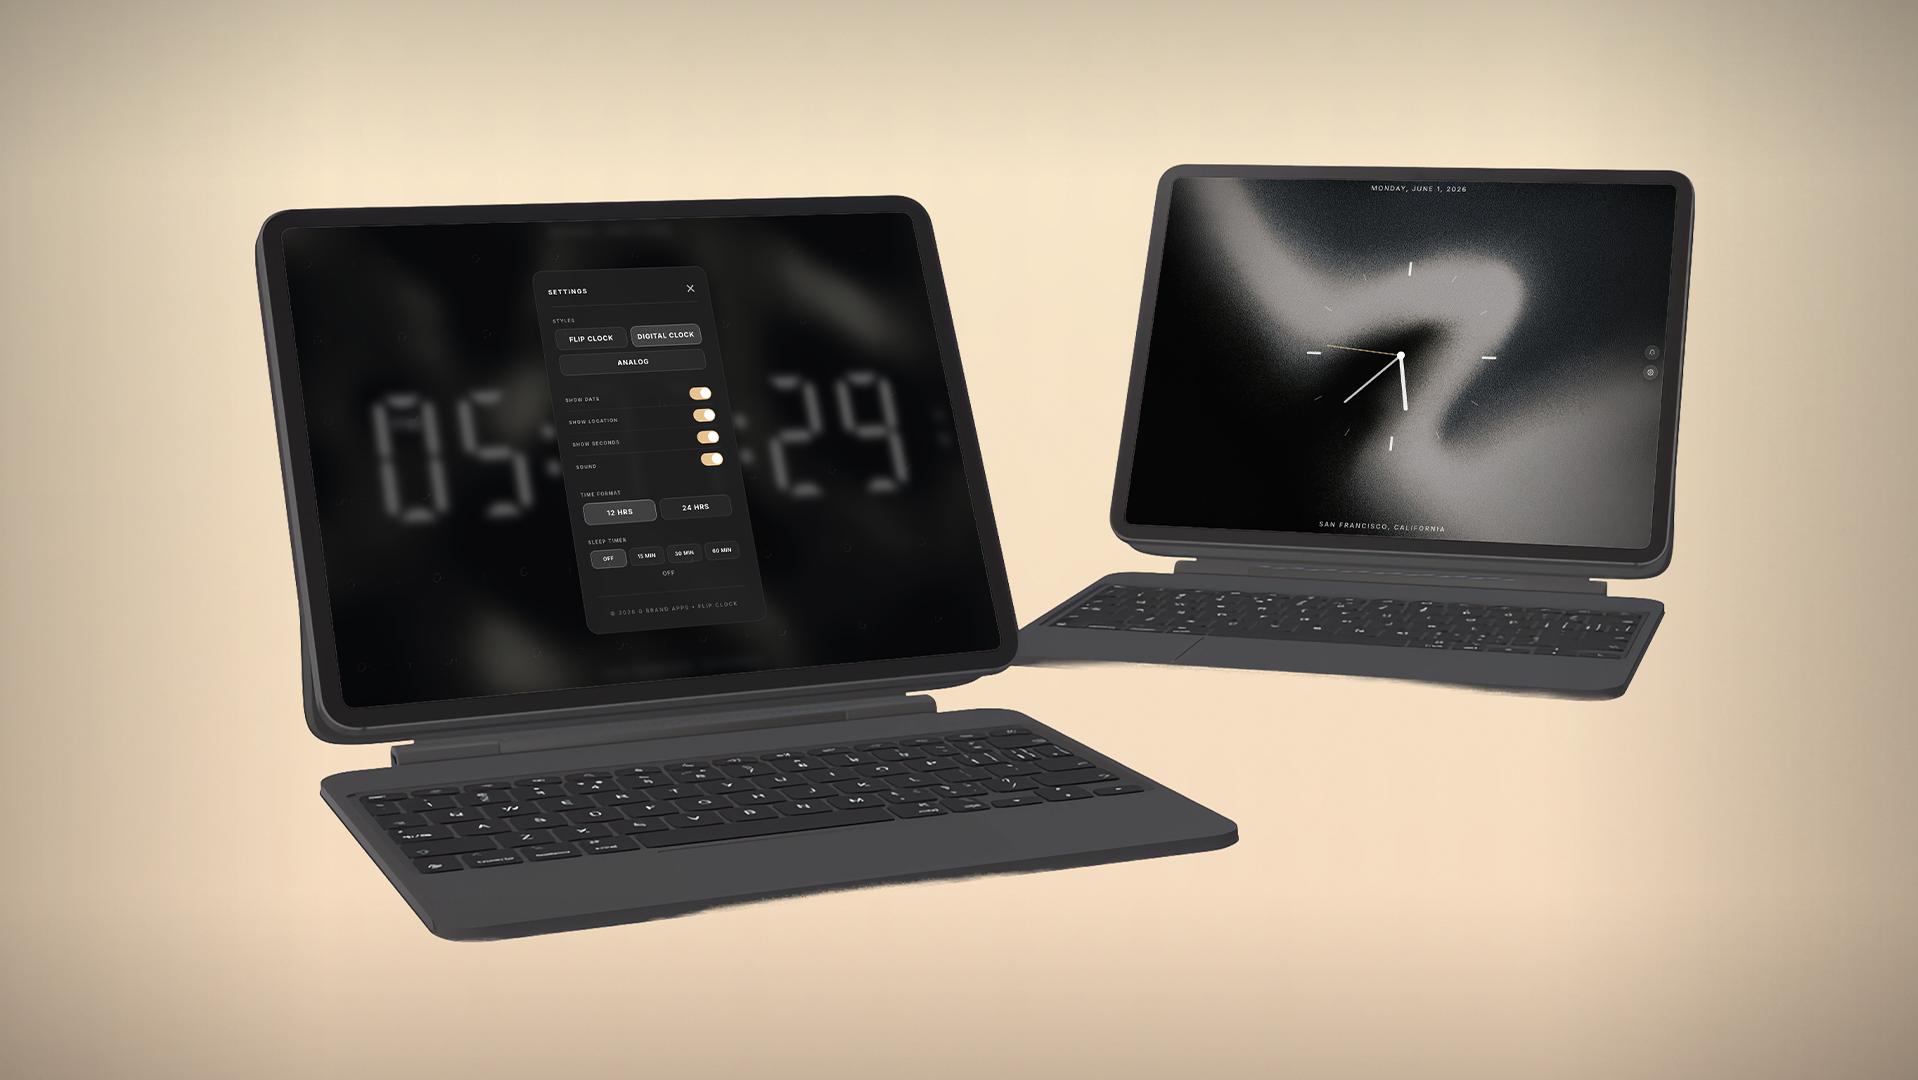
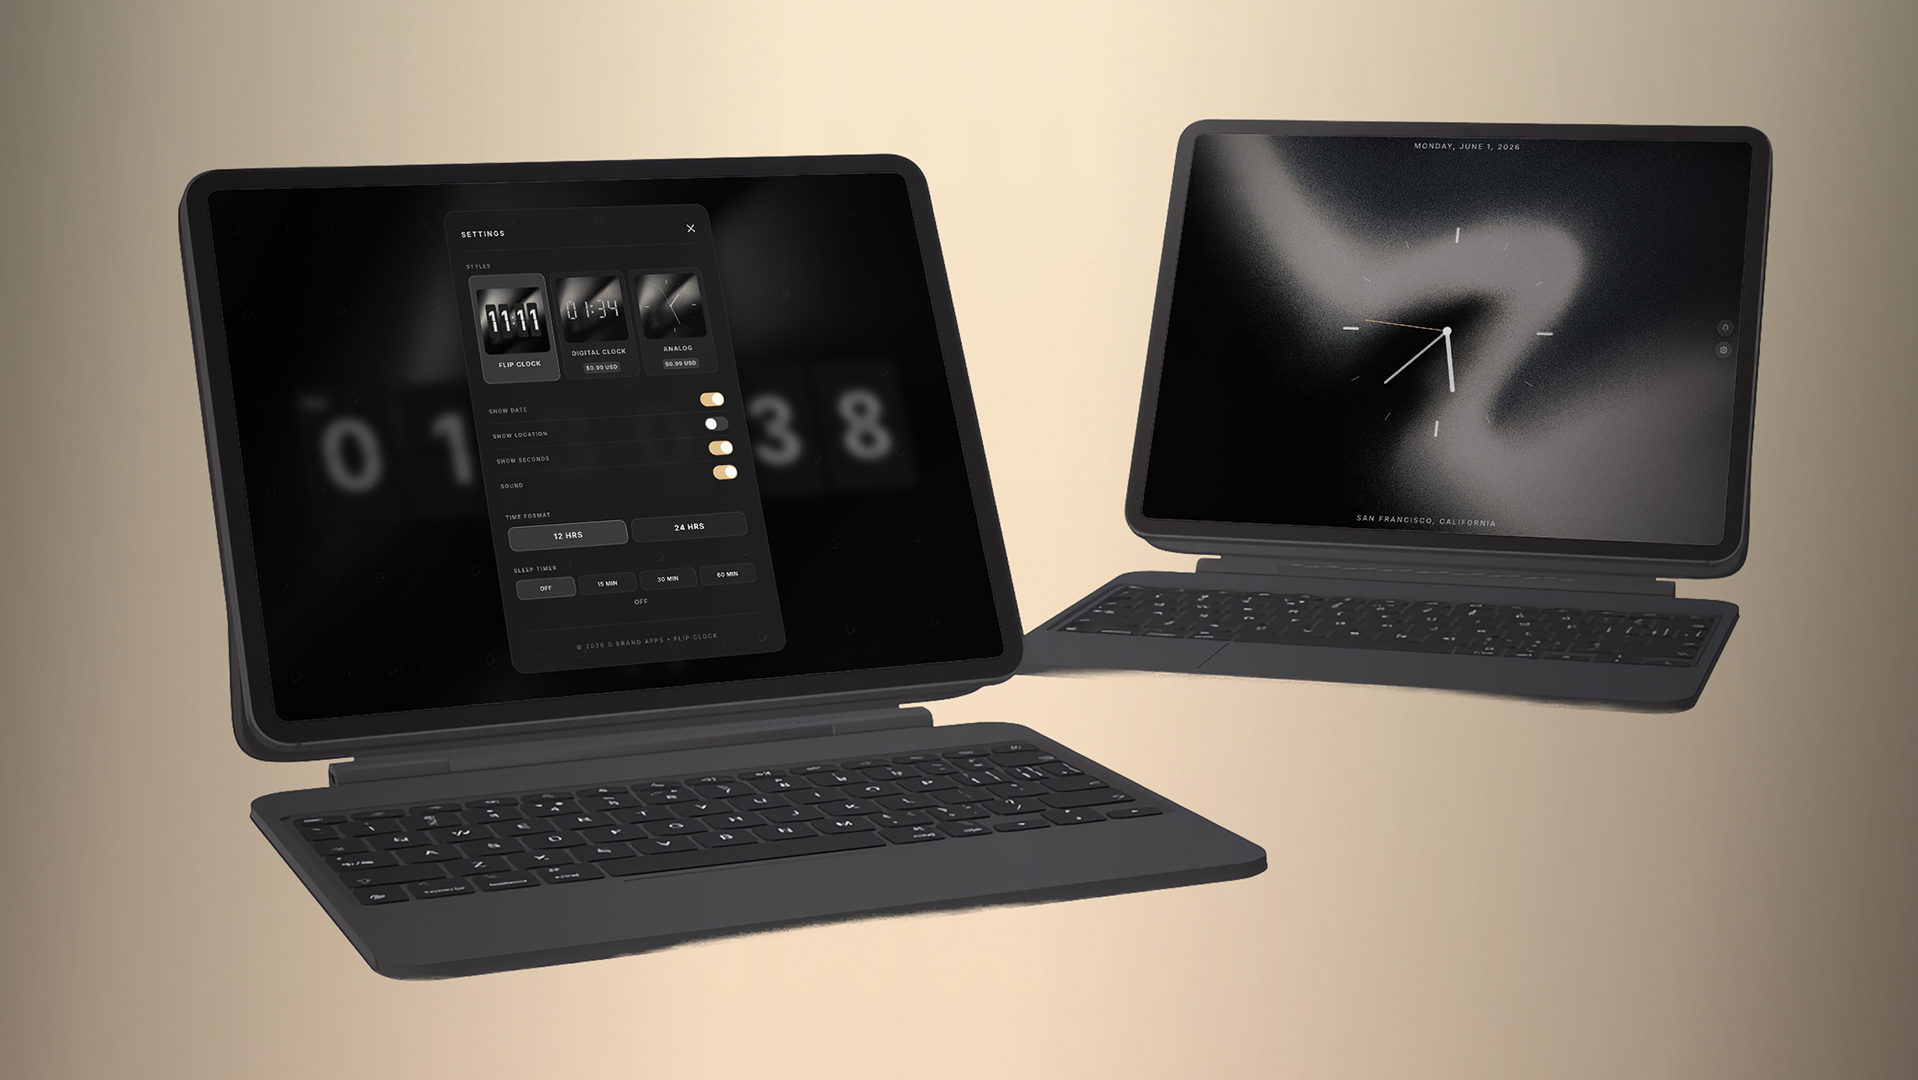
Update flip clock web: Add iOS download link and update carousel images

diff --git a/flip-clock-web/index.html b/flip-clock-web/index.html
@@ -260,8 +260,8 @@
                 <div class="app-downloads">
                     <img src="assets/images/icono.png" alt="Icon" class="app-icon" onerror="this.style.display='none'">
                     <div class="store-badges">
-                        <a href="#" onclick="handleIOSClick(event)">
-                            <img src="assets/images/badge-apple.png" alt="App Store" class="store-badge disabled" onerror="this.style.display='none'">
+                        <a href="https://apps.apple.com/mx/app/flip-clock-time-master/id6775342639" target="_blank" rel="noopener noreferrer">
+                            <img src="assets/images/badge-apple.png" alt="App Store" class="store-badge" onerror="this.style.display='none'">
                         </a>
                     </div>
                 </div>
@@ -358,14 +358,6 @@
             initSlider();
         }
 
-        function handleIOSClick(e) {
-            e.preventDefault();
-            const msg = currentLang === 'es' 
-                ? "Próximamente disponible en Apple App Store para iOS." 
-                : "Coming soon to the Apple App Store for iOS.";
-            alert(msg);
-        }
-
         // Configuración de Imágenes
         let currentOS = 'ios';
         let currentIndex = 0;
@@ -375,7 +367,7 @@
         const dotsContainer = document.getElementById('carouselDots');
         
         function getSlideCount() {
-            return 5; // Updated to match the 5 images in assets/images/ios/
+            return 6; // Updated to match the 6 images in assets/images/ios/
         }
 
         function initSlider() {